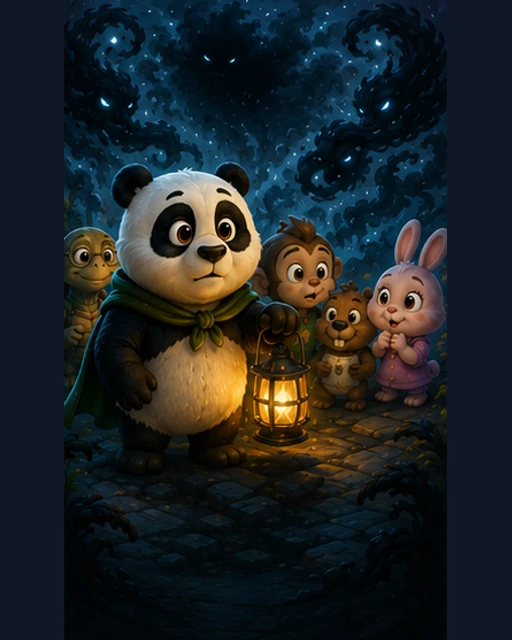
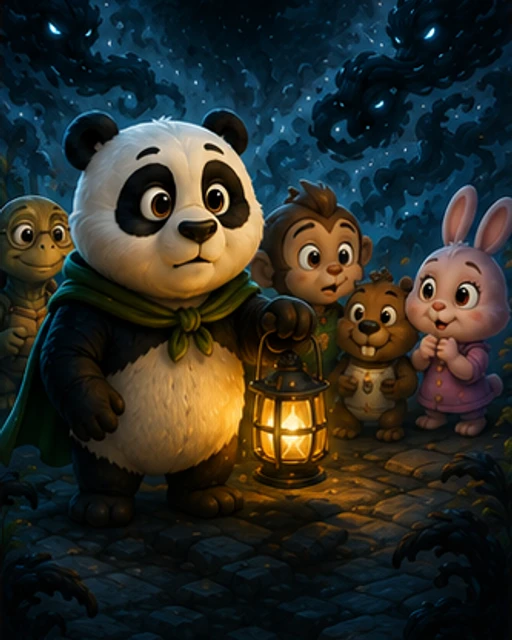
refactor: update story cover cropping logic and enhance edge verification
- Replaced 'contain' fit with 'cover' in cropping functions for better image presentation.
- Introduced `isLetterboxRgb` utility to identify letterbox colors in edge statistics.
- Updated edge grading logic to prioritize letterbox detection over white gutter warnings.
- Adjusted CSS for story cover art to ensure consistent object-fit behavior across components.
- Updated multiple story cover images to reflect new cropping standards.image.png

diff --git a/src/index.css b/src/index.css
@@ -68,7 +68,8 @@
   --radius-shell-lg: 22px;
   --radius-shell-md: 16px;
   --radius-shell-pill: 999px;
-  --shell-offset-top: 60px;
+  --chrome-height: 48px;
+  --shell-offset-top: var(--chrome-height);
   --shell-section-gap: clamp(3.5rem, 6vw, 5.5rem);
   --heading-tight: -0.04em;
   --transition: all 0.3s cubic-bezier(0.4, 0, 0.2, 1);
@@ -167,7 +168,7 @@
   min-height: 100vh;
   min-height: 100dvh;
   background: var(--fh-bg-gradient);
-  margin-top: -60px; /* Offset the main-content-wrapper padding since Family Hub has its own header */
+  margin-top: calc(-1 * var(--shell-offset-top)); /* Offset main-content-wrapper padding — Family Hub has its own header */
   padding-top: 0;
 }
 
@@ -1103,7 +1104,7 @@ body {
   align-items: center;
   gap: clamp(0.5rem, 1vw, 0.875rem) !important;
   padding: 0.125rem 0;
-  min-height: 36px;
+  min-height: var(--chrome-height);
   width: 100%;
   position: relative;
   overflow: visible;
@@ -1664,8 +1665,8 @@ body {
 /* ===== HERO SECTION ===== */
 .hero {
   background: var(--gradient-hero);
-  margin-top: -60px;
-  padding: 168px 0 18px; /* 60px (header offset) + 108px (original padding) */
+  margin-top: calc(-1 * var(--shell-offset-top));
+  padding: calc(108px + var(--shell-offset-top)) 0 18px;
   position: relative;
   overflow: hidden;
   min-height: 54vh;
@@ -3890,8 +3891,8 @@ body {
   }
   
   .hero-simple {
-    margin-top: -60px;
-    padding-top: 60px !important;
+    margin-top: calc(-1 * var(--shell-offset-top));
+    padding-top: var(--shell-offset-top) !important;
   }
   
   .hero-simple > .container {
@@ -4646,8 +4647,8 @@ body {
 
 /* Hero Simple */
 .hero-simple {
-  margin-top: -60px;
-  padding-top: 60px !important; /* Offset for fixed header */
+  margin-top: calc(-1 * var(--shell-offset-top));
+  padding-top: var(--shell-offset-top) !important; /* Offset for fixed header */
   padding-bottom: 0;
   padding-left: 0;
   padding-right: 0;
@@ -11696,7 +11697,7 @@ header.header .nav-actions button.header-icon-btn:not(.header-search-bar) {
   }
 
   .story-cover-art__img {
-    @apply absolute inset-0 h-full w-full object-contain object-center;
+    @apply absolute inset-0 h-full w-full object-cover object-center;
   }
 
   .story-cover-art--thumb .story-cover-art__img {
@@ -11714,7 +11715,7 @@ header.header .nav-actions button.header-icon-btn:not(.header-search-bar) {
   }
 
   .story-cover-art--card .story-cover-art__img {
-    @apply object-contain object-center;
+    @apply object-cover object-center;
   }
 
   .story-cover-art--banner {
